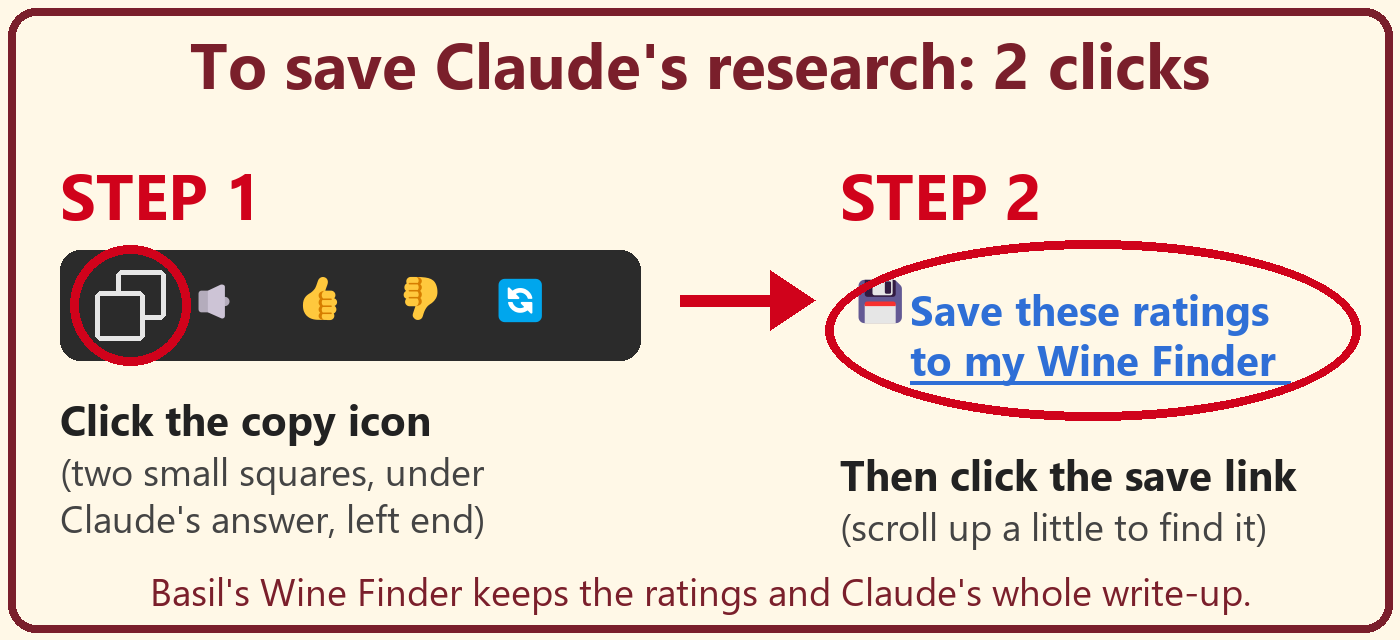
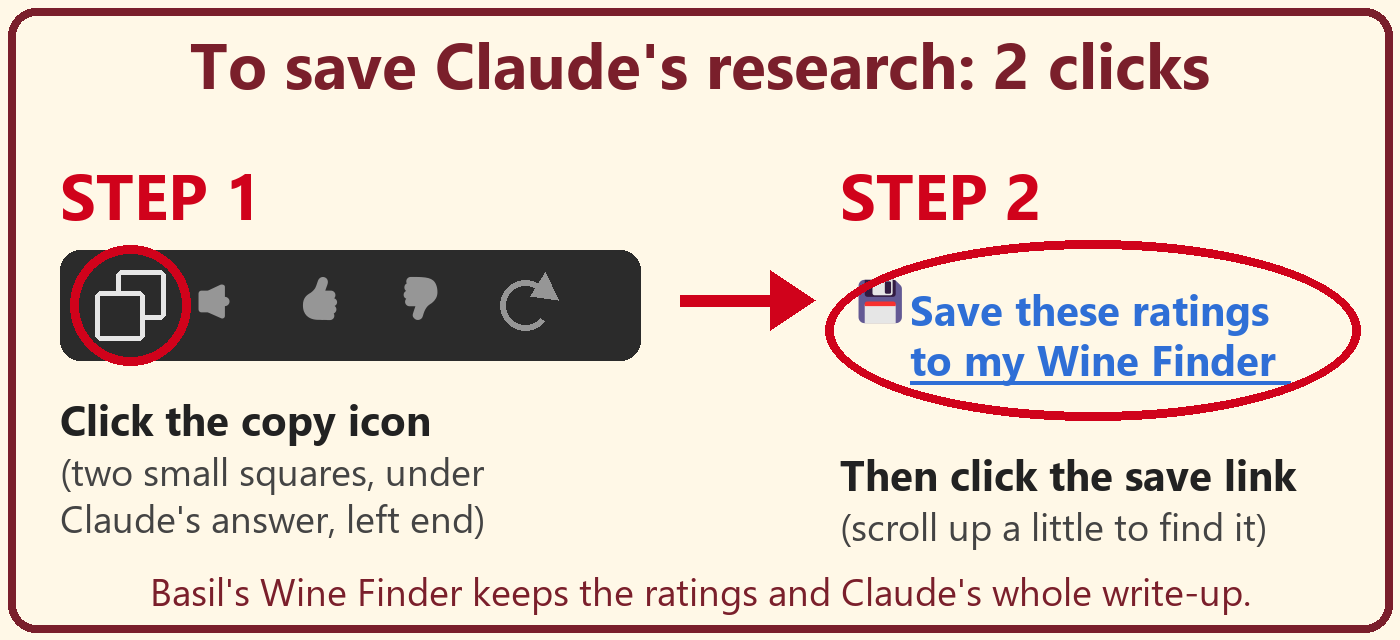
Show the two save steps as a picture (claude.ai won't show it in answers)
Tested: claude.ai shows outside images only as an empty box that links away,
so the picture appears on our pages instead: the research header, the
steps box before Claude opens, and the save box when no write-up was
copied (with 'Save again' and 'Save without the write-up'). Icons redrawn
in Claude's plain grey.

Changed region(s): [[0.2764, 0.4375, 0.3993, 0.5312], [0.1229, 0.4375, 0.1843, 0.5], [0.215, 0.4375, 0.2457, 0.5]]

diff --git a/app.js b/app.js
@@ -797,6 +797,7 @@ function askClaude(mode = "about") {
     ${done.length ? `<p class="warning">📖 ${done.length === 1 ? `“${esc(done[0].name)}” already has` : `${done.length} of these wines already have`} Claude Research Results from the family. Read them first with the 📖 button on each wine: you may not need to ask again.</p>` : ""}
     <p>Here's what happens when you press the button below:</p>
     <ol class="steps">${what}</ol>
+    <img class="save-steps-img" src="images/save-steps.png?v=2" alt="To save Claude&#39;s research, 2 clicks: first click the copy icon (two small squares) under Claude&#39;s answer, then click the 💾 Save these ratings to my Wine Finder link.">
     ${ZOOM_TIP}
     <p class="dialog-actions">
       <button type="button" class="btn btn-big btn-claude" id="go-claude">Open Claude with my question</button>
@@ -1407,6 +1408,7 @@ function parseShareHash(hash) {
 }
 
 let pendingSave = null;
+let saveAnyway = false; // "Save without the write-up" was pressed
 
 function offerSavedRatings() {
   const items = parseSaveHash(location.hash);
@@ -1432,6 +1434,8 @@ function offerSavedRatings() {
   $("save-writeup-text").value = "";
   $("save-writeup-state").textContent = "It's picked up from Claude's copy button when you press Save.";
   $("save-name-row").hidden = !!myName();
+  $("save-howto").hidden = $("save-anyway").hidden = true;
+  saveAnyway = false;
   $("save-dialog").showModal?.();
 }
 
@@ -1449,6 +1453,14 @@ async function confirmSavedRatings() {
   let text = $("save-writeup-text").value.trim();
   if (!text && !$("save-writeup").hidden) {
     try { const clip = await navigator.clipboard.readText(); if (looksLikeClaudeAnswer(clip, ids)) text = clip; } catch { /* not allowed */ }
+  }
+  if (!text && !$("save-writeup").hidden && !saveAnyway) {
+    $("save-howto").hidden = false;
+    $("save-anyway").hidden = false;
+    $("save-yes").textContent = "Save again";
+    $("save-result").textContent = "";
+    $("save-howto").scrollIntoView({ block: "nearest" });
+    return;
   }
   const parts = text ? splitWriteup(text, ids) : {};
   const today = todayIso(), from = myName(), notes = localNotes();
@@ -1491,7 +1503,7 @@ async function confirmSavedRatings() {
   }
   $("save-yes").textContent = "Close";
   $("save-yes").dataset.done = "1";
-  $("save-no").hidden = true;
+  $("save-no").hidden = $("save-anyway").hidden = $("save-howto").hidden = true;
   refreshRatedViews();
 }
 
@@ -2499,6 +2511,7 @@ function wireEvents() {
     else if (t.dataset.rateSave) saveMyRating(t.dataset.rateSave, t);
     else if (t.dataset.rateClear) clearMyRating(t.dataset.rateClear);
     else if (t.id === "save-yes") confirmSavedRatings();
+    else if (t.id === "save-anyway") { saveAnyway = true; $("save-howto").hidden = true; confirmSavedRatings(); }
     else if (t.id === "save-email-fallback") { $("save-dialog").close(); showView("mywines"); scrollToFamilyBox(); emailRatings(); }
     else if (t.dataset.notes) openNotes(t.dataset.notes);
     else if (t.id === "notes-close") $("notes-dialog").close();

diff --git a/index.html b/index.html
@@ -7,7 +7,7 @@
 <meta name="robots" content="noindex, nofollow">
 <title>Basil's Wine Finder</title>
 <!-- Bump ?v= whenever app.css or app.js changes, so browsers fetch the new files instead of a saved copy. -->
-<link rel="stylesheet" href="app.css?v=2026-10-25.5">
+<link rel="stylesheet" href="app.css?v=2026-10-25.6">
 </head>
 <body>
 <header class="top">
@@ -273,6 +273,7 @@
       <li><strong>Ask Claude.</strong> Claude opens with the question already written.</li>
       <li><strong>Save the research.</strong> When Claude finishes, press Claude's copy button under its answer (two small squares), then click <strong>💾 Save these ratings to my Wine Finder</strong> at the very bottom. The ratings and Claude's write-up are kept, and shared with the family.</li>
     </ol>
+    <img class="save-steps-img" src="images/save-steps.png?v=2" alt="To save Claude's research, 2 clicks: first click the copy icon (two small squares) under Claude's answer, then click the 💾 Save these ratings to my Wine Finder link.">
   </header>
 
   <section class="typed-box" aria-labelledby="sl-add-h">
@@ -333,10 +334,15 @@
     <label for="save-name">Your first name <span class="hint">(asked once, so the family knows who did the research)</span></label>
     <input type="text" id="save-name" autocomplete="given-name">
   </div>
+  <div id="save-howto" class="save-howto" hidden>
+    <p><strong>Claude's write-up wasn't found.</strong> Go back to Claude, click the <strong>copy icon</strong> (two small squares) under its answer, then come back here and press <strong>Save again</strong>.</p>
+    <img class="save-steps-img" src="images/save-steps.png?v=2" alt="To save Claude's research, 2 clicks: first click the copy icon (two small squares) under Claude's answer, then click the 💾 Save these ratings to my Wine Finder link.">
+  </div>
   <p id="save-help" class="hint" hidden>In Claude, you can ask: “Please make the save link again.”</p>
   <p id="save-result" class="status" role="status"></p>
   <div class="dialog-actions">
     <button type="button" class="btn btn-primary btn-big" id="save-yes" autofocus>Save</button>
+    <button type="button" class="linklike" id="save-anyway" hidden>Save without the write-up</button>
     <button type="button" class="linklike" id="save-no">Cancel</button>
   </div>
 </dialog>
@@ -369,6 +375,6 @@
 
 <div id="print-area" class="print-area"></div>
 
-<script src="app.js?v=2026-10-25.5"></script>
+<script src="app.js?v=2026-10-25.6"></script>
 </body>
 </html>

diff --git a/app.css b/app.css
@@ -427,3 +427,8 @@ legend { font-weight: 700; font-size: 1.3rem; padding: 0 0.4rem 0 0; color: var(
 .stale-tab { position: fixed; inset: 0; background: rgba(40, 10, 20, 0.75); display: grid; place-items: center; z-index: 1000; padding: 1rem; }
 .stale-tab[hidden] { display: none; }
 .stale-card { background: #fff; border-radius: 0.75rem; padding: 1.25rem 1.5rem; max-width: 30rem; }
+
+/* The two save steps, as a picture */
+.save-steps-img { display: block; width: 100%; max-width: 46rem; height: auto; margin: 0.75rem 0; border-radius: 0.6rem; }
+.research-head .save-steps-img { max-width: 34rem; background: #fff; }
+.save-howto { background: #fff3c4; border: 2px solid #8a5a14; border-radius: 0.6rem; padding: 0.6rem 0.8rem; margin: 0.5rem 0; }
